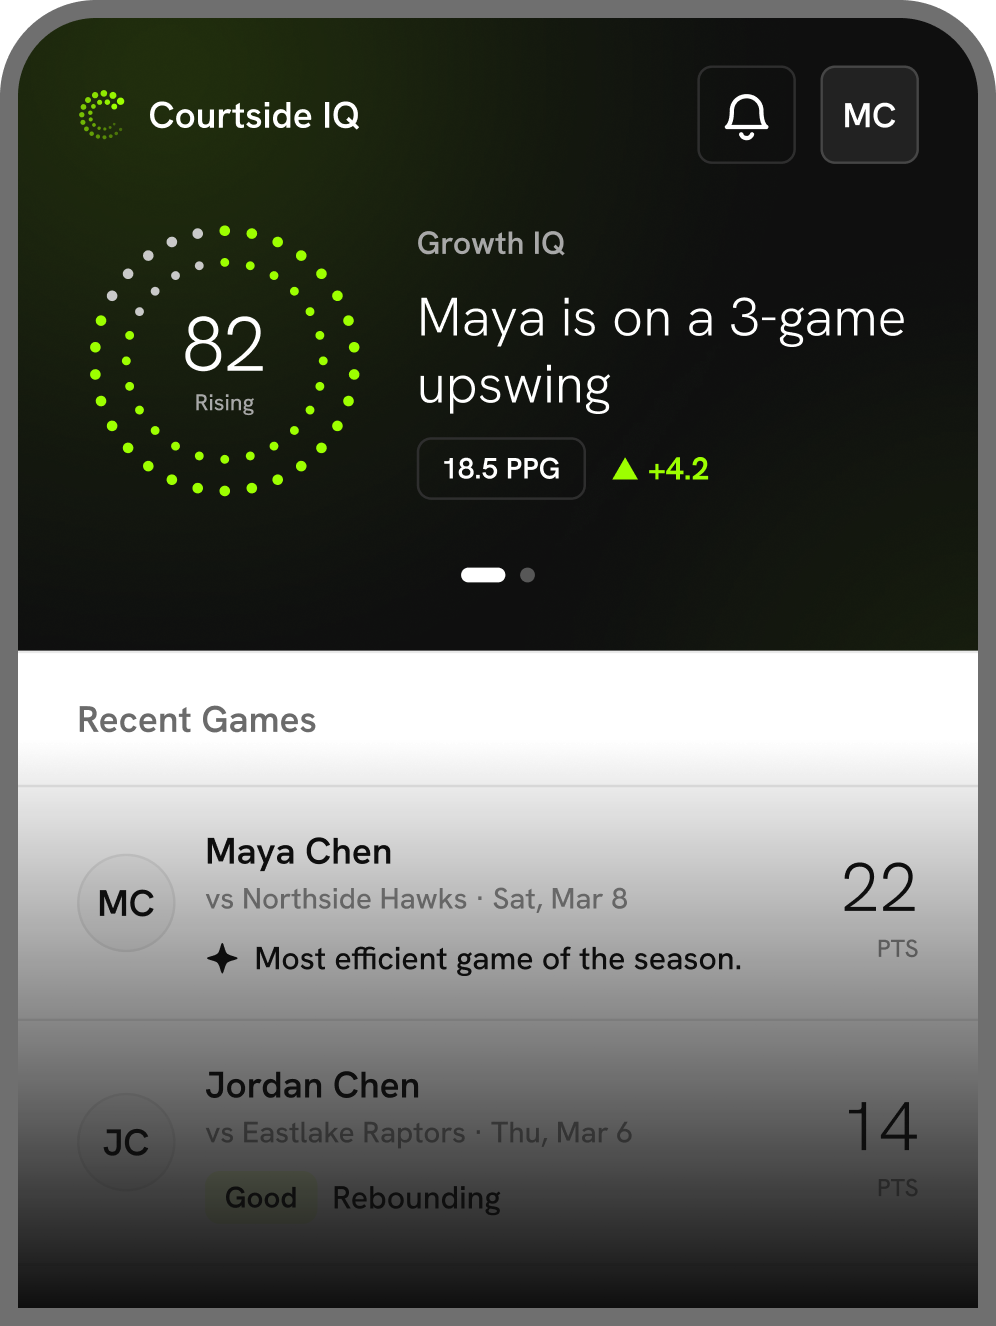
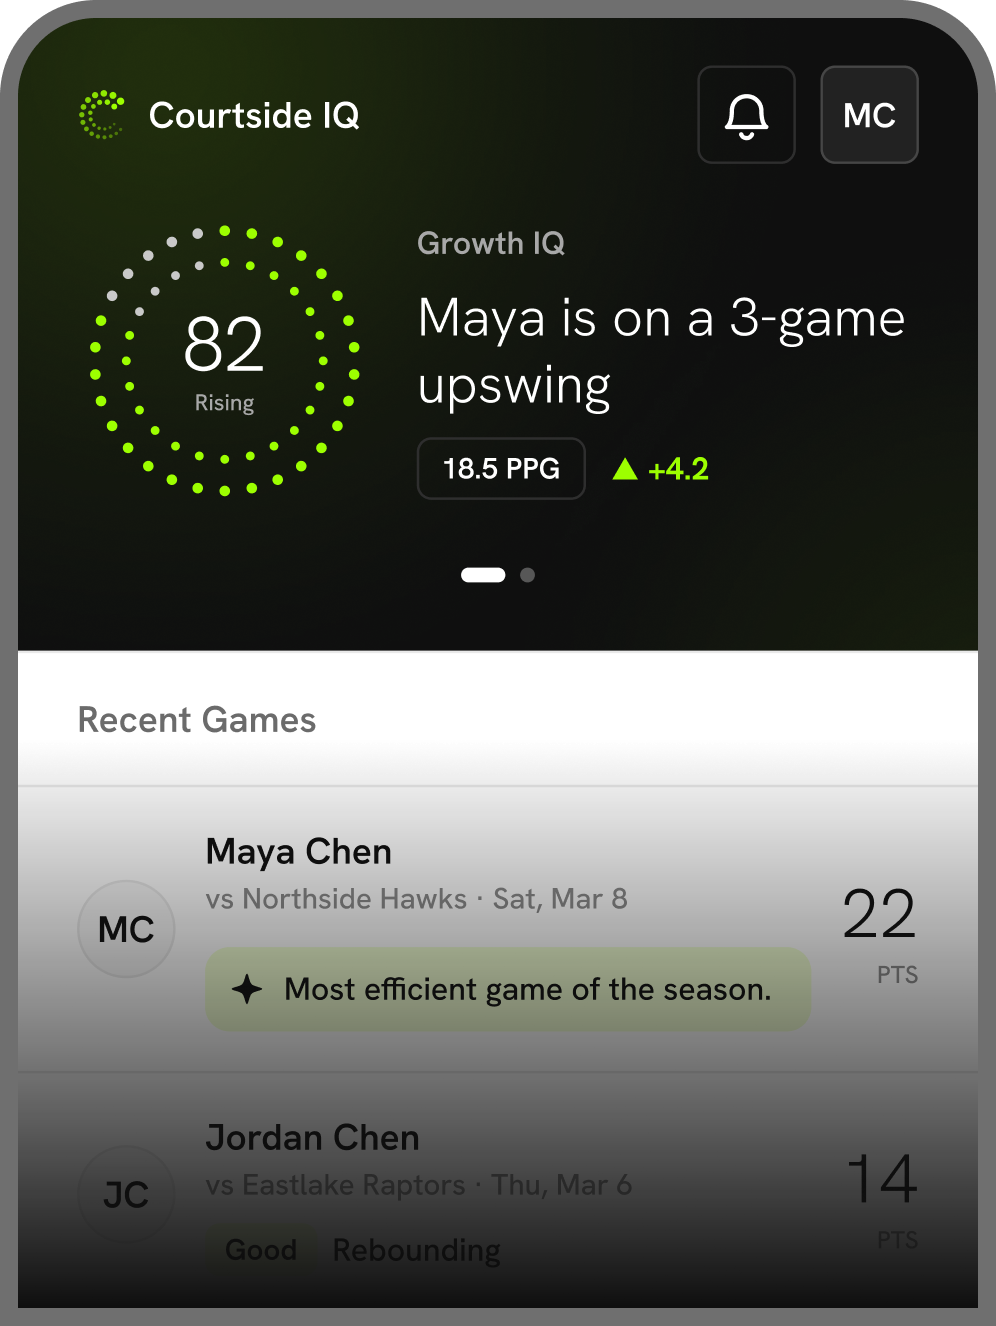
fix(game-row): insight on the lime wash, spark on line one
Device check (Quin, 2026-09-30): the insight line sat too tight under the
date and blended in with the tier and stats rows. It is now a full-width
lime-wash card (the Game Detail insight card's ground), 10pt below the
date, radius control, text in onAccent. The spark sits in a box one line
tall, so it centres on the first line however the sentence wraps.
Onboarding slide 1 re-exported with the new row.

Figma: GameRow Insight variants, Design Review Fixes section 10.

diff --git a/lib/features/home/widgets/game_feed_row.dart b/lib/features/home/widgets/game_feed_row.dart
@@ -19,9 +19,11 @@
 // horizontal row, 24 side / 16 vertical padding, 12 gaps:
 //
 //   left    avatar 38 (when showPlayer)
-//   middle  title SemiBold 15, "vs Opponent · date" Medium 12 muted, then 6pt
-//           and ONE meaning line (game_row_meaning.dart):
-//             insight  the spark 14 + first sentence, Medium 13, 2 lines max
+//   middle  title SemiBold 15, "vs Opponent · date" Medium 12 muted, then
+//           ONE meaning line (game_row_meaning.dart), 6pt below (10 for insight):
+//             insight  lime-wash card, radius 10, padding 10/8: the spark 14
+//                      centred on line one + first sentence, Medium 13 on an
+//                      18 line, 2 lines max
 //             tier     the Game Detail tier chip (CiBadge.tier) + skill name
 //             stats    "7 rebounds, 3 steals", Medium 13 textSoft
 //   right   the lead number Light 28 over its label Medium 10 muted
@@ -259,7 +261,12 @@ class GameFeedRow extends StatelessWidget {
                           overflow: TextOverflow.ellipsis),
                     ],
                     if (line != null) ...[
-                      const SizedBox(height: 6),
+                      // 10 above the insight card, which needs the air to
+                      // read as its own thing; 6 above a tier or stats line.
+                      SizedBox(
+                          height: meaning.kind == GameRowMeaningKind.insight
+                              ? 10
+                              : 6),
                       line,
                     ],
                   ],
@@ -378,30 +385,53 @@ class _MeaningLine extends StatelessWidget {
 
   final GameRowMeaning meaning;
 
+  /// One line of the insight sentence: 13pt text on an 18pt line.
+  static const double _insightLineHeight = 18;
+
   @override
   Widget build(BuildContext context) {
     final c = CiColors.of(context);
     final text = meaning.text!;
     final style = CiType.labelTight.copyWith(fontWeight: CiWeight.medium);
     return switch (meaning.kind) {
-      GameRowMeaningKind.insight => Row(
+      // ON THE LIME WASH (Quin, 2026-09-30 device check): as a bare line
+      // under the date it sat too tight and blended in with the tier and
+      // stats rows. The wash is the Game Detail insight card's own ground, so
+      // the row previews what the tap opens; full width so it reads as a
+      // card, never as a second tier chip.
+      GameRowMeaningKind.insight => Container(
           key: const ValueKey('game-row-insight'),
-          crossAxisAlignment: CrossAxisAlignment.start,
-          children: [
-            // THE insight spark, as on the insight card and the profile's
-            // development blocks: this line is Courtside IQ's own words.
-            Padding(
-              padding: const EdgeInsets.only(top: 1),
-              child: Icon(Icons.auto_awesome, size: 14, color: c.text),
-            ),
-            const SizedBox(width: 6),
-            Expanded(
-              child: Text(text,
-                  style: style.copyWith(color: c.text),
-                  maxLines: 2,
-                  overflow: TextOverflow.ellipsis),
-            ),
-          ],
+          width: double.infinity,
+          padding: const EdgeInsets.symmetric(
+              horizontal: CiSpace.s2 + 2, vertical: CiSpace.s2),
+          decoration: BoxDecoration(
+            color: c.accentGoodWash,
+            borderRadius: CiRadius.controlR,
+          ),
+          child: Row(
+            crossAxisAlignment: CrossAxisAlignment.start,
+            children: [
+              // THE insight spark, as on the insight card and the profile's
+              // development blocks: this line is Courtside IQ's own words.
+              // Boxed at one line's height so it centres on the FIRST line
+              // however the sentence wraps.
+              SizedBox(
+                width: 14,
+                height: _insightLineHeight,
+                child: Center(
+                  child: Icon(Icons.auto_awesome, size: 14, color: c.onAccent),
+                ),
+              ),
+              const SizedBox(width: CiSpace.s2),
+              Expanded(
+                child: Text(text,
+                    style: style.copyWith(
+                        color: c.onAccent, height: _insightLineHeight / 13),
+                    maxLines: 2,
+                    overflow: TextOverflow.ellipsis),
+              ),
+            ],
+          ),
         ),
       GameRowMeaningKind.tier => Row(
           key: const ValueKey('game-row-tier'),
